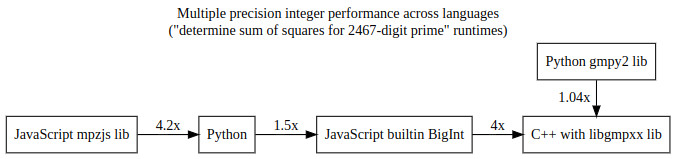
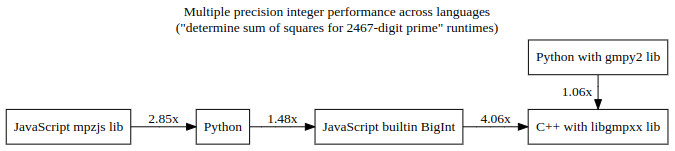
Complete cross language performance comparison with Intel measurements

Changed region(s): [[0.0, 0.2384, 0.9956, 0.9801], [0.2489, 0.053, 0.7467, 0.2384]]

diff --git a/performance/README.md b/performance/README.md
@@ -1,9 +1,9 @@
 # Multiple precision integer performance across languages
 
-This performance investigation is on multiple precision integer performance, but not low level as with C libgmp or gpm-wasm low level functions. Reason is that the (fast) code looks ugly that way, and at least for C++ and Python there are high performant and nice looking alternatives.
+This performance investigation is on multiple precision integer performance, but not low level as with C libgmp or gpm-wasm low level functions. Reason is that the (fast) code looks ugly that way, and at least for C++ and Python there are high performance and nice looking alternatives.
 
 ### C++
-C++ [libgmpxx](https://gmplib.org/manual/C_002b_002b-Class-Interface) is nice and performant wrapper for libgmp. Here small function ```mods()``` computing "signed mod":
+C++ [libgmpxx](https://gmplib.org/manual/C_002b_002b-Class-Interface) is nice and performant wrapper for libgmp. Small function ```mods()``` computing "signed mod" example:
 ```
     mpz_class mods(mpz_class a, mpz_class n) {
         assert(n > 0);
@@ -18,7 +18,7 @@ C++ [libgmpxx](https://gmplib.org/manual/C_002b_002b-Class-Interface) is nice an
 
 ### NodeJS/JavaScript
 
-The gmp-wasm calcpi.js benchmark gives some ideas on options other than to use builtin BigInt type. While the repo analysis seems promising for Intel CPU, no performance improvement is possible over native BigInt without using low level gmp-wasm, which is not wanted (see [calcpi.js](#calcpijs) section). BigInt implementation of ```mods()``` looks nice:
+The gmp-wasm calcpi.js benchmark gives some ideas on options other than to use builtin BigInt type. But BigInt type is the best, see [calcpi.js](#calcpijs) section for details. BigInt implementation of ```mods()``` is nice:
 ```
 function mods(a, n){
     assert(n > 0n);
@@ -29,7 +29,7 @@ function mods(a, n){
     return a;
 }
 ```
-"mpzjs" library code uses more low-level functions:  
+"mpzjs" library code uses more low-level functions, and is much less performant than BigInt:  
 ```
 function mods(a, n){
     assert(n > 0);
@@ -43,7 +43,7 @@ function mods(a, n){
 
 
 ### Python
-"gmpy2" library allows for libgmpxx performance, while code does look identical to "normal" Python code. The performance difference results just by passing either ```2 ** 2 ** 13 + 897``` or ```mpz(2 ** 2 ** 13 + 897)```. Here is ```mods()``` with type hinting for "normal" Python ```int``` type:
+"gmpy2" library allows for libgmpxx performance, while code does look identical to "normal" Python code. The performance difference results just by passing either Python int ```2 ** 2 ** 13 + 897``` or gmpy2 ```mpz(2 ** 2 ** 13 + 897)```. Here is ```mods()``` with type hinting for "normal" Python ```int``` type:
 ```
 def mods(a: int, n: int) -> int:
     """returns "signed" a (mod n), in range -n//2..n//2"""
@@ -55,43 +55,61 @@ def mods(a: int, n: int) -> int:
 ```
 
 
-The benchmark I used to compare more than the few multiple precision functions from "calcpi.js" is function ```sq2(p)```, that returns pair/array/tuple (C++/NodeJS/Python) containing numbers whose squares add up to passed ```p```, which is asserted to be prime number and =1 (mod 4). That function, and other signed mod and Gaussian integer (complex number whose real and imaginary parts are both integers) fuctions were 2010 Robert Chapman Python code, that I transpiled to JavaScript manually, and transpiled to C++ further from there. That construction process makes the Python/NodeJS/C++ code "the same" and good for cross language performance comparison. While "Gaussian integer Greatest Common Divisor" function ```ggcd(w, z)``` has efficient (logarithmic in input size) runtime, computing sum of squares for 2467-digit (8193-bit) prime number takes some seconds on Cortex-A72 at least.
+The benchmark I used to compare more than the few multiple precision functions from "calcpi.js" is function ```sq2(p)```, that returns pair/array/tuple (C++/NodeJS/Python) containing numbers whose squares add up to passed ```p```, which is asserted to be prime number and =1 (mod 4). That function, and other signed mod and Gaussian integer (complex number whose real and imaginary parts are both integers) functions were 2010 Robert Chapman Python code, that I transpiled to JavaScript manually, and transpiled to C++ further from there. That construction process makes the Python/NodeJS/C++ code "the same" and good for cross language performance comparison. While "Gaussian integer Greatest Common Divisor" function ```ggcd(w, z)``` has efficient (logarithmic in input size) runtime, computing sum of squares for 2467-digit (8193-bit) prime number takes some seconds on Cortex-A72 at least.
 
 ## 2467-digit sum of squares benchmark
 
-All source code can be found in [RSA_numbers_factored](https://github.com/Hermann-SW/RSA_numbers_factored) repo.
+All source code can be found in this repo.
 
 ### Arm
+1.8GHz Cortex-A72 CPU measured runtimes:   
 ![2466-digit.python_nodejs_cpp.graphviz.jpg](2466-digit.python_nodejs_cpp.graphviz.jpg)  
 
-Best is 2.4s at bottom for C++ with libgmpxx.  
-
-Python runtime 14.2s is much slower.  
-But Python with gmpy2 runtime 2.5s is only minimally slower than C++.  
-
-Finally native BigInt runtime 9.6s is 4× slower than C++.  
-And using mpzjs library makes runtime 4.2× worse than BigInt runtime (no improvement for Cortex-A72).
+Best is 2.36s at bottom for C++ with libgmpxx, but Python with gmpy2 lib is nearly as efficient with 2.49s. Best NodeJS option with builtin BigInt is much slower with 9.57s.  
 ![2466-digit.python_nodejs_cpp.jpg](2466-digit.python_nodejs_cpp.jpg)
 
 ### Intel
-tbd
+3.6GHz i7-11700K CPU is much faster, measured runtimes in the diagram:  
+![2466-digit.python_nodejs_cpp.graphviz.intel.jpg](2466-digit.python_nodejs_cpp.graphviz.intel.jpg)
+
+### Summary
+
+Combined view, with cross CPU runtime factors between Python with gmpy2, C++ with libgmpxx and JavaScript with BigInt (the best option for non low-level NodeJS code): 
+![2466-digit.python_nodejs_cpp.graphviz.combined.jpg](2466-digit.python_nodejs_cpp.graphviz.combined.jpg)
 
 ## calcpi.js
 
-There are two benchmarks in [gmp-wasm repo](https://github.com/Daninet/gmp-wasm/tree/master/benchmark). "mulspeeds.c" only tests multiplication of two 30,000-digit numbers (for mpzjss and gmp-wasm libraries, and JavaScript native BigInt). Better suited to compare more operations for other arbitrary precision libraries is "calcpi.js". I made that work with nodejs:  
+There are two benchmarks in [gmp-wasm repo](https://github.com/Daninet/gmp-wasm/tree/master/benchmark), see also section [Performance](https://github.com/Daninet/gmp-wasm/tree/master#performance) in that repo. "mulspeeds.c" only tests multiplication of two 30,000-digit numbers (for mpzjss and gmp-wasm libraries, and JavaScript native BigInt). Better suited to compare more operations for other arbitrary precision libraries is "calcpi.js". I made that work with nodejs v12.22.x in this gist:  
 [https://gist.github.com/Hermann-SW/615c6409d2d3de9a0916c87e857d9cb3](https://gist.github.com/Hermann-SW/615c6409d2d3de9a0916c87e857d9cb3)
 
 For execution ```npm i decimal.js``` installs all libraries needed for "calcpi.js" (decimal.js, big.js, big-integer, gmp-wasm, pi-decimals, mpzjs).
 
-### Intel
-
-[https://github.com/Daninet/gmp-wasm/tree/master#performance](https://github.com/Daninet/gmp-wasm/tree/master#performance)  
-The measurements were made with Node.js v16.14 on an Intel Kaby Lake desktop CPU. With no interest in low-level gmp functions, best option *gmp-wasm with delayed memory deallocation* gives only 40% runtime reduction over just using BigInt.  
-![gmp-wasm.performance.jpg](gmp-wasm.performance.jpg)  
 ### Arm 
-The measurements were done on Cortex-A72 CPU (without GUI in console mode) with NodeJS v12.22.12. Both *gmp-wasm without low-level functions* are worse than builtin BigInt here. While using MPZJS library shows 10% improvement here for Arm, the other benchmark above showed 320% slowdown over native BigInt. So without low-level gmp-wasm functions, best NodeJS option is to use native BigInt.
+The measurements were done on 1.8GHz Cortex-A72 CPU (without GUI in console mode) with NodeJS v12.22.12. Both *gmp-wasm without low-level functions* are worse than builtin BigInt here. While using MPZJS library shows 10% improvement here for Arm, the other benchmark above showed 185% slowdown over native BigInt. So without low-level gmp-wasm functions,Bbest NodeJS option is to use builtin BigInt.
 ![calcpi.js.jpg](calcpi.js.jpg)
 
 
+
+### Intel
+
+The measurements were made with Node.js v12.22.9 on an 3.6GHz i7-11700K. Here all gmp-wasm options are worse than builtin BigInt. Only mpzjs library shows improvement over using builtin BigInt (3.5%), but the other benchmark above showed 219% slowdown. So best option here is NodeJS with BigInt as well.  
+```
+...
+Measuring... round 4
+┌──────────────────────────────┬─────────────┬─────────────┬─────────────┬─────────────┬─────────────┐
+│           (index)            │     avg     │    run1     │    run2     │    run3     │    run4     │
+├──────────────────────────────┼─────────────┼─────────────┼─────────────┼─────────────┼─────────────┤
+│       JS_BigInt_Series       │ '49.50 ms'  │ '51.00 ms'  │ '49.00 ms'  │ '49.00 ms'  │ '49.00 ms'  │
+│      GMP_BigInt_Series       │ '78.75 ms'  │ '82.00 ms'  │ '80.00 ms'  │ '77.00 ms'  │ '76.00 ms'  │
+│  GMP_DelayGC_BigInt_Series   │ '73.25 ms'  │ '78.00 ms'  │ '73.00 ms'  │ '75.00 ms'  │ '67.00 ms'  │
+│  GMP_LowLevel_BigInt_Series  │ '54.00 ms'  │ '54.00 ms'  │ '54.00 ms'  │ '54.00 ms'  │ '54.00 ms'  │
+│     MPZJS_BigInt_Series      │ '47.75 ms'  │ '47.00 ms'  │ '47.00 ms'  │ '49.00 ms'  │ '48.00 ms'  │
+│ GMP_LowLevel_BigInt_Stepwise │ '957.25 ms' │ '959.00 ms' │ '956.00 ms' │ '957.00 ms' │ '957.00 ms' │
+│    MPZJS_BigInt_Stepwise     │ '418.75 ms' │ '420.00 ms' │ '418.00 ms' │ '420.00 ms' │ '417.00 ms' │
+│      BigInteger_Series       │ '50.75 ms'  │ '51.00 ms'  │ '51.00 ms'  │ '51.00 ms'  │ '50.00 ms'  │
+│   DecimalJs_BigInt_Series    │ '361.00 ms' │ '359.00 ms' │ '360.00 ms' │ '363.00 ms' │ '362.00 ms' │
+│       GMP_Float_Series       │ '170.25 ms' │ '171.00 ms' │ '171.00 ms' │ '169.00 ms' │ '170.00 ms' │
+...
+```
 
 
